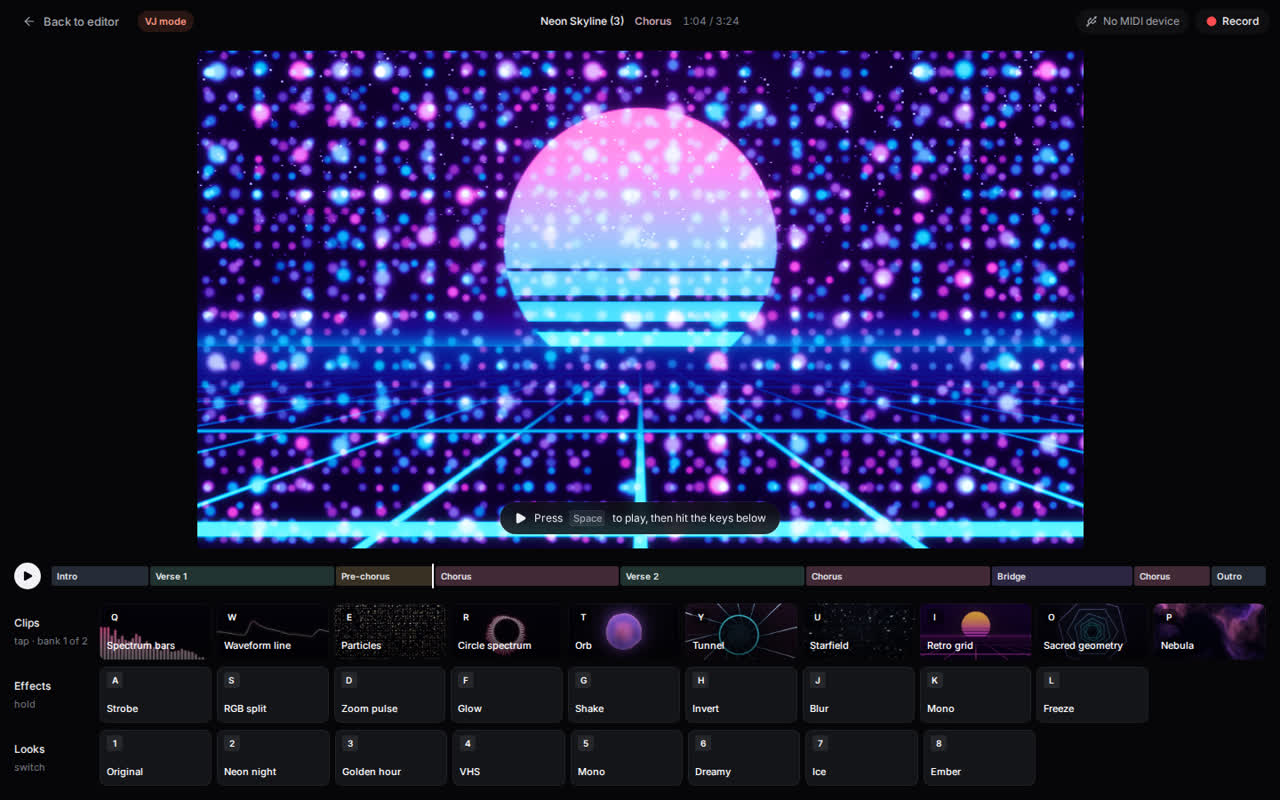
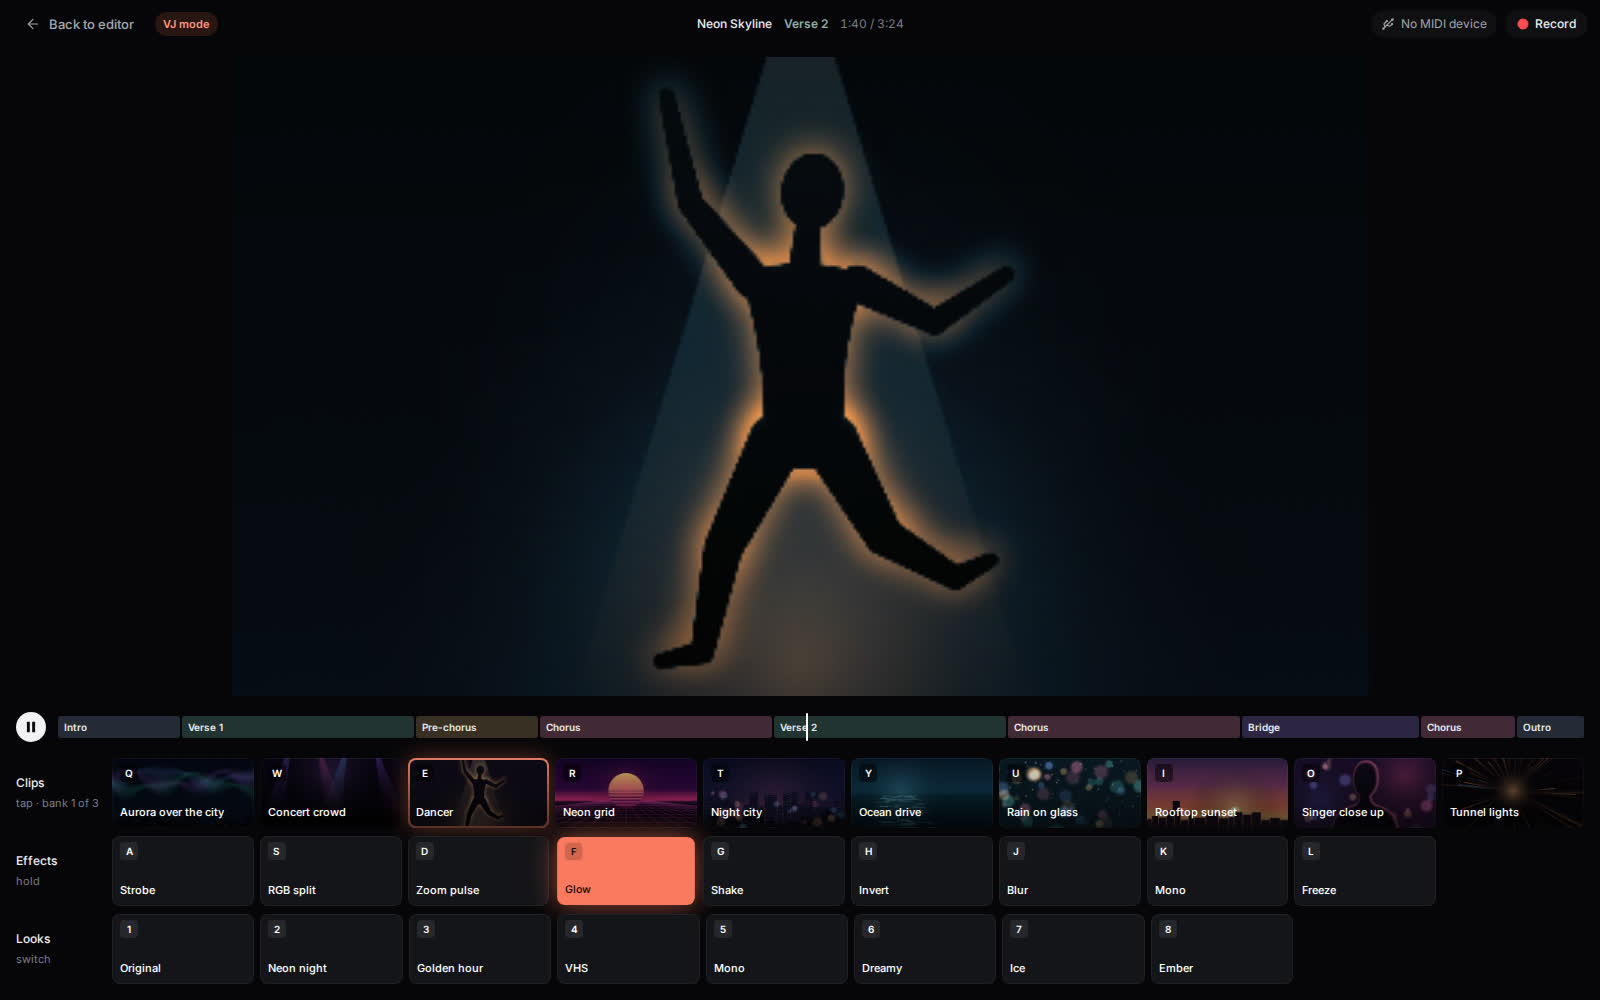
docs(readme): known-limit wording as corrected, and screenshots that say what they show
The chorus, word timing, 3D camera and local-model bullets use the corrected wording; the speed bullets say
"without a graphics card" once, in the lead line. The kinds grid is labelled, its beat-cut frame is a CC0 clip
cut to the sample song (credited), and its AI frame is marked as the sample's drawn stand-in. The editor, Director
and VJ shots are retaken with one project name, Director and VJ are full width, VJ is playing with a pad held, and
Director shows every timeline row.

diff --git a/README.md b/README.md
@@ -19,7 +19,9 @@ MV Studio turns a song into a finished music video in your browser. Make a lyric
 
 The Start screen has a starting point for each kind, plus a blank project and **Open project file**. Every automatic or AI result becomes normal project content (clips, keyframes, text and effects) that you can change by hand. Nothing is locked in.
 
-![One frame of each kind: a lyric video, a visualizer, beat-cut footage and an AI music video](docs/screenshots/kinds.jpg)
+![One frame of each kind, labelled: a lyric video, a visualizer, beat-cut footage and an AI music video](docs/screenshots/kinds.jpg)
+
+_The beat-cut frame is “Chinese fitness dancing in Haikou People's Park” by Anna Frodesiak (CC0, Wikimedia Commons), cut to the sample song. The AI music video frame comes from the built-in sample project, whose shots are drawn stand-ins: with your fal.ai key, the director generates real shots in their place._
 
 ## Local-first and private
 
@@ -76,7 +78,9 @@ The Start screen has a starting point for each kind, plus a blank project and **
 - Save frame: a full-size PNG of the current frame, from the preview's right-click menu or the command palette.
 - Live VJ mode: trigger clips, effects and looks from the keyboard or a MIDI controller during playback, quantized to the beat or bar if you like. The performance is recorded as editable timeline content. The default MIDI mapping is in **Settings › VJ and MIDI**.
 
-<img src="docs/screenshots/director.jpg" alt="Assist › Director after a draft: what it placed and the plan for each section, with Undo draft and Play the draft" width="49%"> <img src="docs/screenshots/vj.jpg" alt="VJ mode: pads for clips, effects and looks under the preview" width="49%">
+![Assist › Director after a draft of the sample project: what it placed and the plan for each section, with Undo draft and Play the draft](docs/screenshots/director.jpg)
+
+![VJ mode while playing, with the Dancer clip on screen and the Glow effect held; pads for clips, effects and looks below the preview](docs/screenshots/vj.jpg)
 
 ## Browser support
 
@@ -154,10 +158,10 @@ Developer notes on the providers, error states and model choice are in [src/clou
 
 - Automatic lyric transcription of sung vocals is a draft and needs correcting. For precise word timing, paste the lyrics and separate the stems.
 - On a 4-core computer without a capable GPU, stem separation (and so precise lyric timing) takes about 1.2 to 1.7 times the song's length, depending on the computer (3.5 to 9 minutes for a 3 to 5 minute song). It is a little faster once the song's analysis has finished, so right after importing a song it takes longest. It needs about 3.5 GB of memory on top of what the browser already uses, which the studio shows as about 4 GB of free memory; the whole browser uses about 4 to 5 GB while it runs (1 GB = 1,000,000,000 bytes). The studio shows an estimate before you start; after your first separation, it is based on how fast your computer was. A capable GPU is expected to make it faster, but that hasn't been measured yet.
-- Word timing can drift in dense, layered vocals and may need touching up by hand. It can also drift where lead and backing vocals sing different words at the same time, and a song's very first or last line can land a few seconds off. The lyrics check flags many of these lines; drag them into place.
+- Word timing can drift in dense, layered vocals and may need touching up by hand. It can also drift where lead and backing vocals sing different words at the same time, and a song's very first or last line can land a few seconds off. Assist › Lyrics marks many of these lines "to check"; drag them into place.
 - If the pasted lyrics leave out sung lines, nearby listed lines can still be pulled into that singing. The app marks lines near singing it can tell is missing ("singing nearby isn't in the lyrics"), but it does not always detect it. For best results, paste every sung line.
 - The tempo is sometimes found at half or twice the speed you feel (in testing, in about one in six songs). About one song in 25, the tempo switches to half or double speed once the bar analysis finishes (about a minute after import). Half and Double next to the tempo, in Assist › Song analysis, fix it in one click.
-- Section labels (intro, verse, chorus, bridge, outro) are best guesses, and the chorus isn't always found: in our tests it was mostly right in about two of three songs from the audio alone, and four of five once the lyrics were pasted. With pasted lyrics, chorus marks are tight: on some songs a chorus starts up to 3 s late or ends up to 3 s early. No chorus is lost or added, and lyrics still find more of the chorus than audio alone. You can rename a section by double-clicking it on the timeline, or in **Inspector › Section**.
+- Section labels (intro, verse, chorus, bridge, outro) are best guesses, and the chorus isn't always found: in our tests it was mostly right in about two of three songs from the audio alone, and four of five once the lyrics were pasted. With pasted lyrics, a chorus mark can start up to 3 s late or end up to 3 s early on some songs. Lyrics still find more of the chorus than audio alone. You can rename a section by double-clicking it on the timeline, or in **Inspector › Section**.
 
 ### Subject cutout and 3D camera
 
@@ -165,21 +169,21 @@ Developer notes on the providers, error states and model choice are in [src/clou
 - Cutout can miss people who are only partly in frame, mostly hidden (spray, crowds), seen from behind, or lying down; it then says there is no one to cut out. It works best when one person is clearly visible.
 - On a few clips, the quick check and the full cutout analysis disagree: a clip first rated good can be rated marginal once the cutout runs, or one of them may not find a person the other found.
 - Subject cutout can still take a large animal close to the camera for a person: in testing, 1 of 27 shots with no one in them was offered for text behind the subject. In a shot that also has a person, an animal can be cut out with them.
-- 3D camera moves on stills can bend or stretch edges around the subject. On photos with thin foreground objects in front of a background (tree rows, lamp posts), some camera moves can make the background ripple, even at the default strength (in a test on photos the studio had not seen, on 1 of 15). Lower the Strength or try another Motion.
+- 3D camera moves on stills can bend or stretch edges around the subject. On photos with thin foreground objects in front of a background (tree rows, lamp posts), some camera moves can make the background ripple, even at the default strength (in a test on photos the studio had not seen, on 1 of 15). Try another Motion; a lower Strength may not remove it.
 
 ### Speed on a computer without a graphics card
 
 Measured on a 4-core computer without a graphics card, where Chrome draws the preview and decodes video in software. A graphics card and hardware video decoding are expected to be faster, but that hasn't been measured, nor have Windows and macOS.
 
-- On computers without a graphics card, the preview and VJ mode play below 60 fps, especially at large window sizes and with several layered HD videos. The app lowers preview quality automatically to keep up. Exports are not affected.
-- In projects with several layered HD videos, jumping, stepping or scrubbing can take 0.1-0.2 s to show the new frame, and up to about half a second at 2560x1440 on a computer without a graphics card. In projects with many 4K clips, jumping back to a 4K clip you haven't viewed recently takes about a third of a second, because the app frees memory so long edits and exports don't run out.
-- At very large window sizes on a computer without a graphics card, slider drags and keyframe edits can take a fraction of a second to show in the preview.
+- The preview and VJ mode play below 60 fps, especially at large window sizes and with several layered HD videos. The app lowers preview quality automatically to keep up. Exports are not affected.
+- In projects with several layered HD videos, jumping, stepping or scrubbing can take 0.1 to 0.2 s to show the new frame, and up to about half a second at 2560x1440. In projects with many 4K clips, jumping back to a 4K clip you haven't viewed recently takes about a third of a second, because the app frees memory so long edits and exports don't run out.
+- At very large window sizes, slider drags and keyframe edits can take a fraction of a second to show in the preview.
 - Zooming a timeline with hundreds of clips with the mouse wheel can drop slightly below 60 fps.
 
 ### AI services and local models
 
 - AI images and video clips need your fal.ai key and cost money per use. The richer director and plain-language edits need an LLM endpoint, in the cloud or on your computer.
-- Local models through Ollama need a larger context than Ollama's default: set its context length to 16k, or 32k after a long director draft (about 1.5 GB more memory with qwen2.5:7b). The app says when a request doesn't fit and which length to set. On computers without a graphics card a 7B model is slow (on a 2-core test machine, 6 to 10 minutes for a director plan and 1 to 9 minutes for an edit) and gets some edits wrong (2 of 5 right in the last test); the director uses its built-in planner if the model's plan doesn't arrive within the answer time limit.
+- Local models through Ollama need a larger context than Ollama's default: set its context length to 16k, or 32k for the largest edits or after a long director draft (about 1.5 GB more memory with qwen2.5:7b). The app says when a request doesn't fit and which length to set. On computers without a graphics card, a 7B model is slow (on a 2-core test machine, 6 to 10 minutes for a director plan and 1 to 9 minutes for an edit) and gets some edits wrong (2 of 5 right in the last test); the director uses its built-in planner if the model's plan doesn't arrive within the answer time limit.
 
 ### Not planned
 
